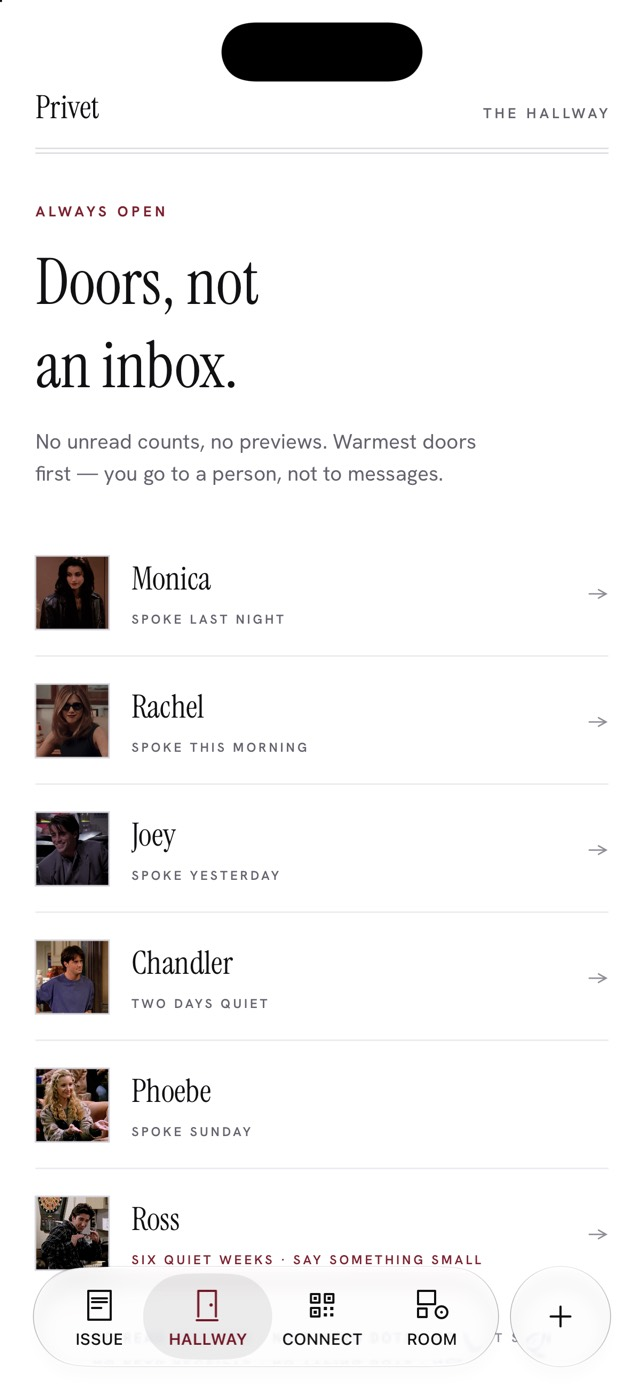
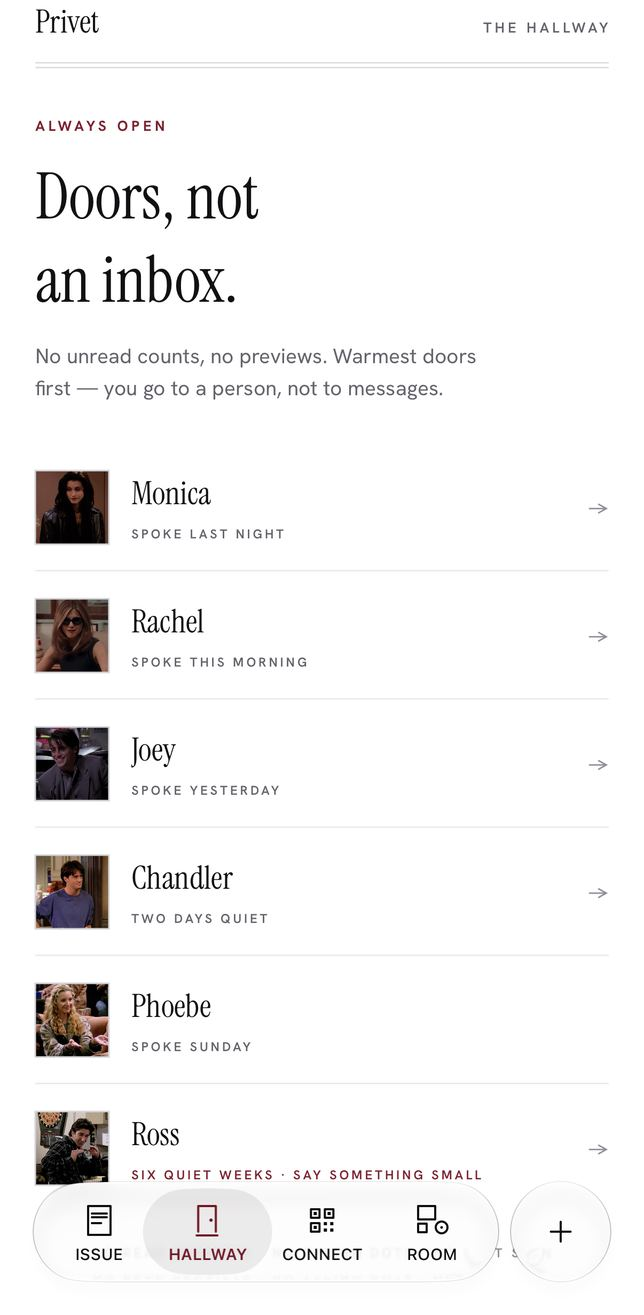
Drop the cover, crop the island, open the wall out
Three fixes from review.

The cover screen is gone and the masthead carries the top of the page on
its own again — kicker, Privet, the double rule, the app's line.

Every capture is cropped 160px off the top. The dynamic island sits at
y=44..152 on this device and the app already hides the status bar, so
the crop costs nothing above the masthead and takes the notch out of all
four screens.

The wall was landing at its home zoom, which frames one row of frames
and little else. PRIVET_ZOOM=0.34 stands the camera back far enough to
show what the wall actually holds: framed photographs and a taped
polaroid, nail cards, a book spine, a sticky note, a cinema poster, a
ticket stub, a handwritten house-rules letter, a boarding pass, the wall
clock, the pinned quote in its frame, a medal on its ribbon, and the
movie and book shelves below.

diff --git a/src/app/page.tsx b/src/app/page.tsx
@@ -104,49 +104,40 @@ const NEXT = [
 export default function Home() {
   return (
     <div>
-      {/* The masthead, and today's cover as the app opens on it */}
-      <section className="border-b border-line py-16 sm:py-24">
-        <Container>
-          <div className="grid items-center gap-14 md:grid-cols-[1.05fr_0.95fr] md:gap-12">
-            <div className="hero-settle text-center md:text-left">
-              <Rise>
-                <Micro className="text-acc">Est. 2026 · By introduction only</Micro>
-              </Rise>
-              <Rise index={1}>
-                <h1 className="display mt-7 text-[clamp(4rem,11vw,8.5rem)]">
-                  Privet
-                </h1>
-              </Rise>
-              <Rise index={2}>
-                <div className="rule-double mx-auto mt-6 w-[min(22rem,80%)] md:mx-0" />
-              </Rise>
-              <Rise index={3}>
-                <p className="mx-auto mt-9 max-w-[20ch] font-serif text-[clamp(1.75rem,3.6vw,2.6rem)] italic leading-[1.25] text-ink2 md:mx-0">
-                  A daily paper of the people you actually know.
-                </p>
-              </Rise>
-              <Rise index={4}>
-                <p className="mx-auto mt-10 max-w-[44ch] text-[1.0625rem] leading-[1.7] text-sub md:mx-0">
-                  Invite-only, iOS, free at launch. Your friends&rsquo; day
-                  arrives once as one issue — you read it to the end, and then
-                  it&rsquo;s done.
-                </p>
-              </Rise>
-              <Rise index={5}>
-                <div className="mt-9 flex items-center justify-center gap-3 md:justify-start">
-                  <span className="dash" />
-                  <Micro className="text-faint">Someone has to let you in</Micro>
-                </div>
-              </Rise>
+      {/* The masthead, as the app opens on it */}
+      <section className="flex min-h-[92svh] flex-col border-b border-line">
+        <Container className="flex flex-1 flex-col items-center justify-center py-20 text-center">
+          <Rise>
+            <Micro className="text-acc">Est. 2026 · By introduction only</Micro>
+          </Rise>
+          <Rise index={1}>
+            <h1 className="display mt-8 text-[clamp(4.5rem,16vw,12rem)]">
+              Privet
+            </h1>
+          </Rise>
+          <Rise index={2}>
+            <div className="rule-double mt-7 w-[min(26rem,74vw)]" />
+          </Rise>
+          <Rise index={3}>
+            <p className="mt-10 max-w-[17ch] font-serif text-[clamp(2rem,4.6vw,3.25rem)] italic leading-[1.22] text-ink2">
+              A daily paper of the people you actually know.
+            </p>
+          </Rise>
+          <Rise index={4}>
+            <p className="mt-11 max-w-[44ch] text-[1.0625rem] leading-[1.7] text-sub">
+              Invite-only, iOS, free at launch. Your friends&rsquo; day arrives
+              once as one issue — you read it to the end, and then it&rsquo;s
+              done.
+            </p>
+          </Rise>
+        </Container>
+        <Container className="pb-12">
+          <Rise index={5}>
+            <div className="flex items-center justify-center gap-3">
+              <span className="dash" />
+              <Micro className="text-faint">Someone has to let you in</Micro>
             </div>
-            <Rise index={2}>
-              <Shot
-                name="cover"
-                alt="Today's cover: the issue has arrived"
-                priority
-              />
-            </Rise>
-          </div>
+          </Rise>
         </Container>
       </section>
 

diff --git a/src/components/shot.tsx b/src/components/shot.tsx
@@ -14,7 +14,7 @@ export function Shot({
 }) {
   const common = {
     width: 644,
-    height: 1400,
+    height: 1315,
     draggable: false,
     loading: priority ? ("eager" as const) : ("lazy" as const),
   };
